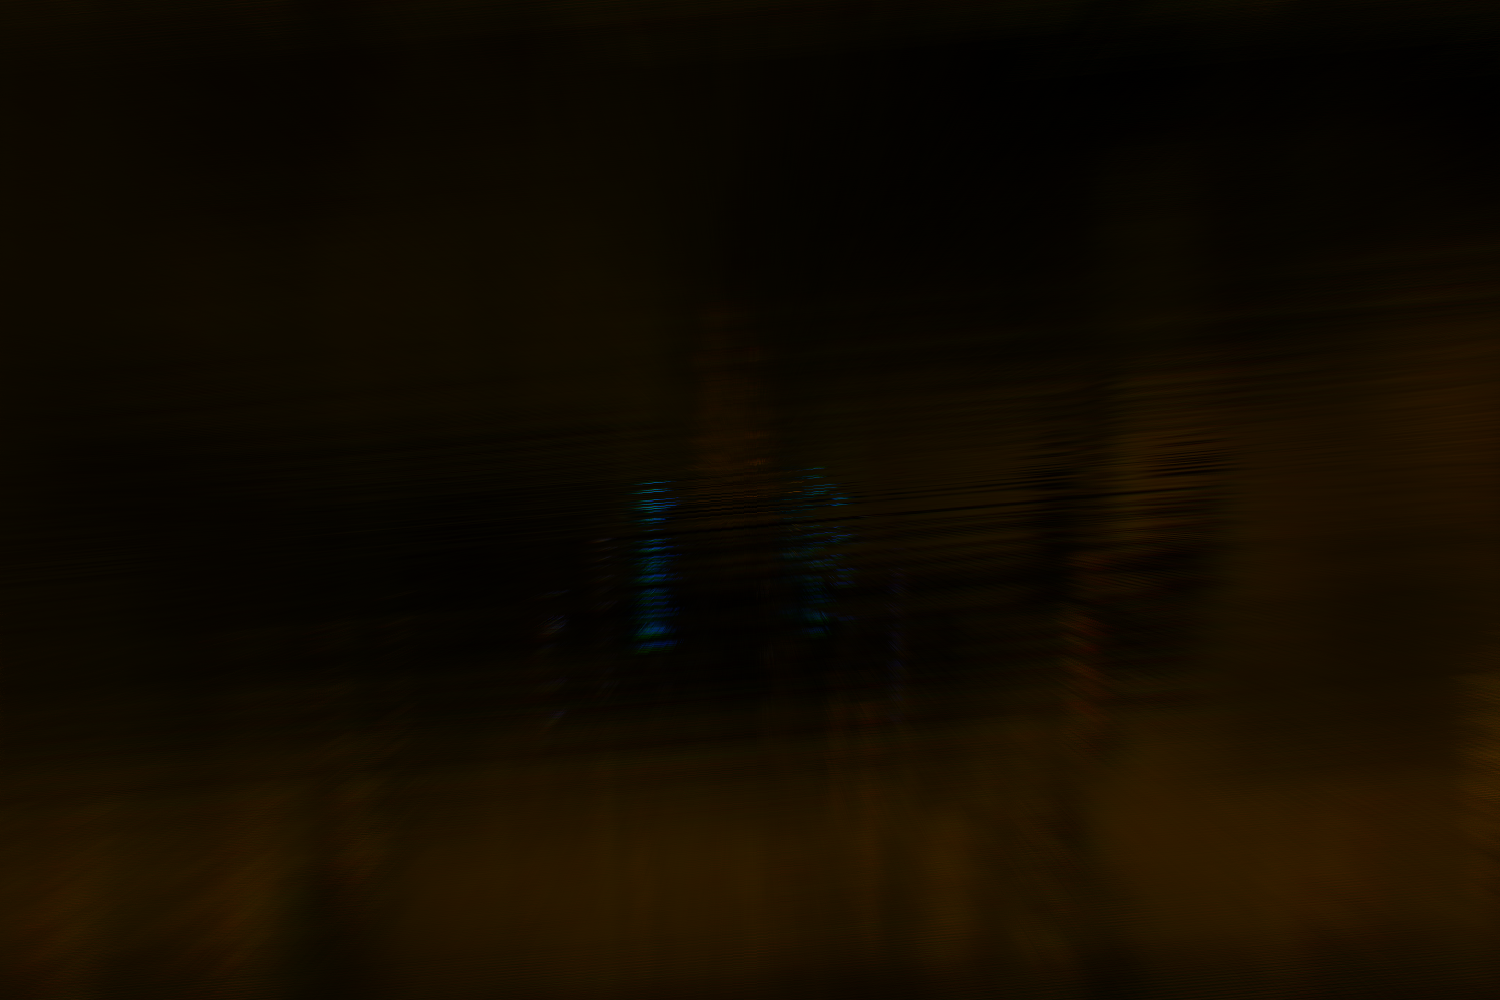
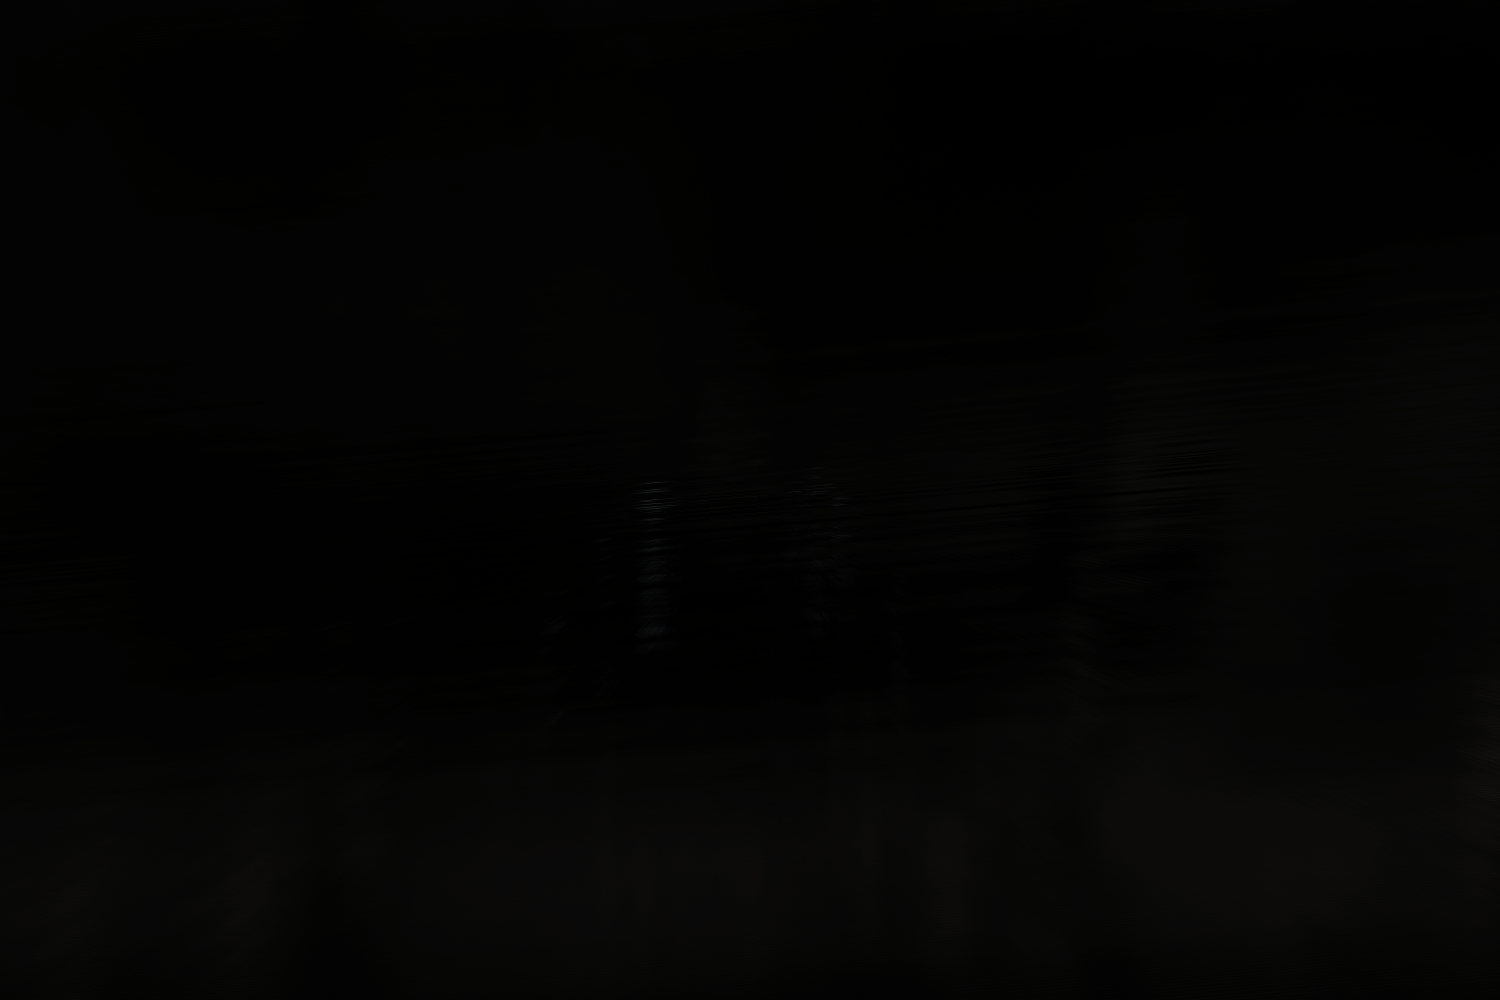
UHW-427895

diff --git a/html/ts.html b/html/ts.html
@@ -11,9 +11,12 @@
 				background: #000;
 			}
 
-			#main {
-				background: url('ts.png') #000;
-				background-size: contain;
+			#bg {
+				position: absolute;
+				display: block;
+				top: 0;
+				z-index: -1;
+				width: auto;
 				height: 100%;
 			}
 
@@ -24,7 +27,6 @@
 				padding: 8px;
 				margin: 8px;
 				min-width: 400px;
-				background: rgb(5, 5, 5);
 				border: 1px solid  #333;
 				cursor: default;
 				user-select: none;
@@ -40,12 +42,12 @@
 			function set_cons(msg) {
 				cm = msg;
 				write_cons();
-			}
+			};
 
 			function set_cons_now(msg) {
 				i = msg.length
 				document.getElementById("pp").innerHTML = msg.replace(/ /g, "&nbsp;");
-			}
+			};
 
 			function write_cons() {
 				if (i < cm.length) {
@@ -60,8 +62,8 @@
 					setTimeout(write_cons, 1);
 				} else {
 					document.getElementById("pp").innerHTML = cm.replace(/ /g, "&nbsp;");
-				}
-			}
+				};
+			};
 
 			function cls() {
 				i = 0;
@@ -69,20 +71,25 @@
 			};
 
 			function set_lobby_image(link) {
-				document.getElementById("main").style.background = "url('" + link + "') #000";
-			};
-
-			function set_lobby_width(width) {
-				document.getElementById("main").style.width = width + "px";
+				document.getElementById("bg").src = link;
 			};
 
 			window.onload = function() {
+				setTimeout(movebg, 75);
 				NotifyByondOnload();
+			};
+
+			var mp = 0;
+			function movebg() {
+				document.getElementById("pp").style.cssText = "background-position: " + mp + "px";
+				mp++
+				if(mp == 32) mp = 0;
+				setTimeout(movebg, 75);
 			};
 
 			function NotifyByondOnload() {
 				window.location.href = "byond://winset?command=Lobby-Ready";
-			}
+			};
 
 			document.onselectstart = function() {
 				window.getSelection().removeAllRanges();
@@ -92,13 +99,12 @@
 	</head>
 
 	<body>
-		<div id=main>
-			<div id=pp>
-				----------------------------------------------------------</br>
-				&nbsp;&nbsp;&nbsp;&nbsp;&nbsp;&nbsp;&nbsp;&nbsp;&nbsp;&nbsp;&nbsp;&nbsp;&nbsp;&nbsp;&nbsp;&nbsp;&nbsp;&nbsp;Загрузка, потерпите...</br>
-				----------------------------------------------------------</br>
-			</div>
+		<div id=pp>
+			----------------------------------------------------------</br>
+			&nbsp;&nbsp;&nbsp;&nbsp;&nbsp;&nbsp;&nbsp;&nbsp;&nbsp;&nbsp;&nbsp;&nbsp;&nbsp;&nbsp;&nbsp;&nbsp;&nbsp;&nbsp;Загрузка, потерпите...</br>
+			----------------------------------------------------------</br>
 		</div>
+		<img id=bg src='ts.png'>
 	</body>
 
 </html>
